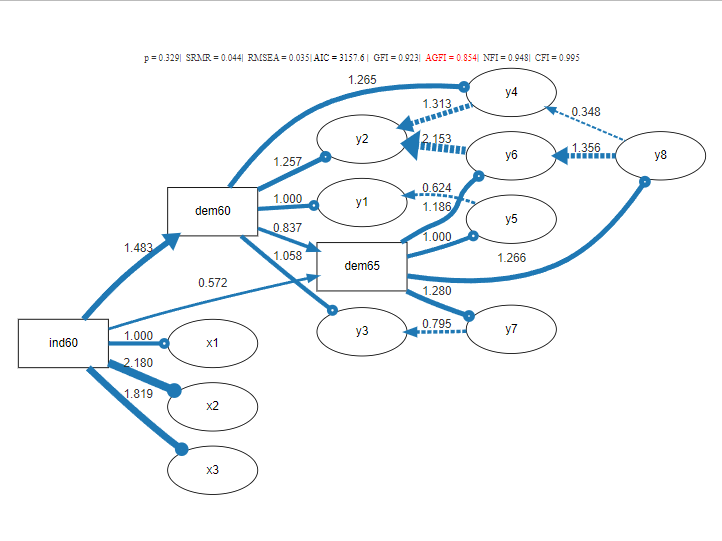
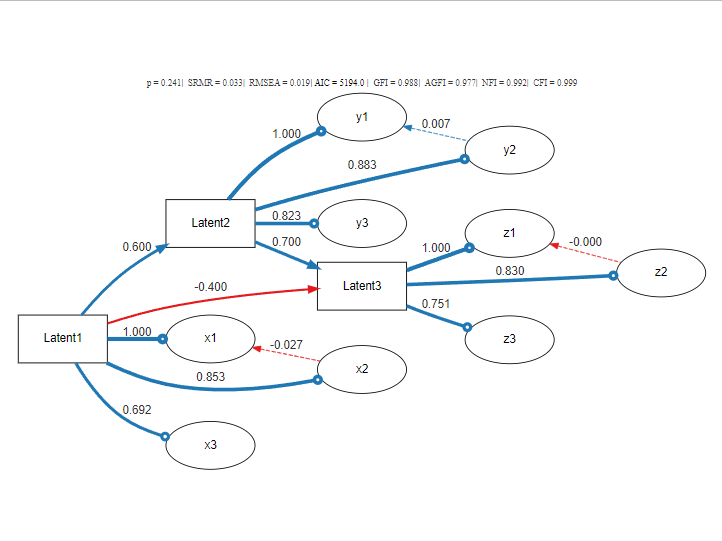
change example

diff --git a/README.md b/README.md
@@ -21,36 +21,60 @@ source("semDiagram.R")
 ## Examples
 
 ```r
-# Loading required packages
+# Load necessary libraries
 library(lavaan)
 
-# Loading PoliticalDemocracy dataset
-data("PoliticalDemocracy")
+# Set seed for reproducibility
+set.seed(123)
 
-# Defining SEM model
+# Generate sample size
+n <- 500
+
+# Generate latent variables
+Latent1 <- rnorm(n)
+Latent2 <- 0.6 * Latent1 + rnorm(n, sd = 0.5)
+Latent3 <- -0.4 * Latent1 + 0.7 * Latent2 + rnorm(n, sd = 0.5)
+
+# Generate observed variables for Latent1
+x1 <- 0.8 * Latent1 + rnorm(n, sd = 0.3)
+x2 <- 0.7 * Latent1 + rnorm(n, sd = 0.3)
+x3 <- 0.6 * Latent1 + rnorm(n, sd = 0.3)
+
+# Generate observed variables for Latent2
+y1 <- 0.9 * Latent2 + rnorm(n, sd = 0.3)
+y2 <- 0.8 * Latent2 + rnorm(n, sd = 0.3)
+y3 <- 0.7 * Latent2 + rnorm(n, sd = 0.3)
+
+# Generate observed variables for Latent3
+z1 <- 0.85 * Latent3 + rnorm(n, sd = 0.3)
+z2 <- 0.75 * Latent3 + rnorm(n, sd = 0.3)
+z3 <- 0.65 * Latent3 + rnorm(n, sd = 0.3)
+
+# Create data frame
+data <- data.frame(x1, x2, x3, y1, y2, y3, z1, z2, z3)
+
+# Define SEM model
 model <- '
   # Measurement model
-  ind60 =~ x1 + x2 + x3
-  dem60 =~ y1 + y2 + y3 + y4
-  dem65 =~ y5 + y6 + y7 + y8
+  Latent1 =~ x1 + x2 + x3
+  Latent2 =~ y1 + y2 + y3
+  Latent3 =~ z1 + z2 + z3
 
   # Structural model
-  dem60 ~ ind60
-  dem65 ~ ind60 + dem60
+  Latent2 ~ 0.6 * Latent1
+  Latent3 ~ -0.4 * Latent1 + 0.7 * Latent2
 
-  # Residual covariances
-  y1 ~~ y5
-  y2 ~~ y4 + y6
-  y3 ~~ y7
-  y4 ~~ y8
-  y6 ~~ y8
+  # Covariances between observed variables
+  x1 ~~ x2
+  y1 ~~ y2
+  z1 ~~ z2
 '
 
-# Fitting the model
-fit <- sem(model, data = PoliticalDemocracy)
+# Fit the model
+fit <- sem(model, data = data)
 
-# Summary of results (including standardized estimates)
-summary(fit, standardized = TRUE)
+# Display summary with fit measures and standardized estimates
+summary(fit, fit.measures = TRUE, standardized = TRUE)
 
 # Visualizing the model using semDiagram() function
 semDiagram(fit)
